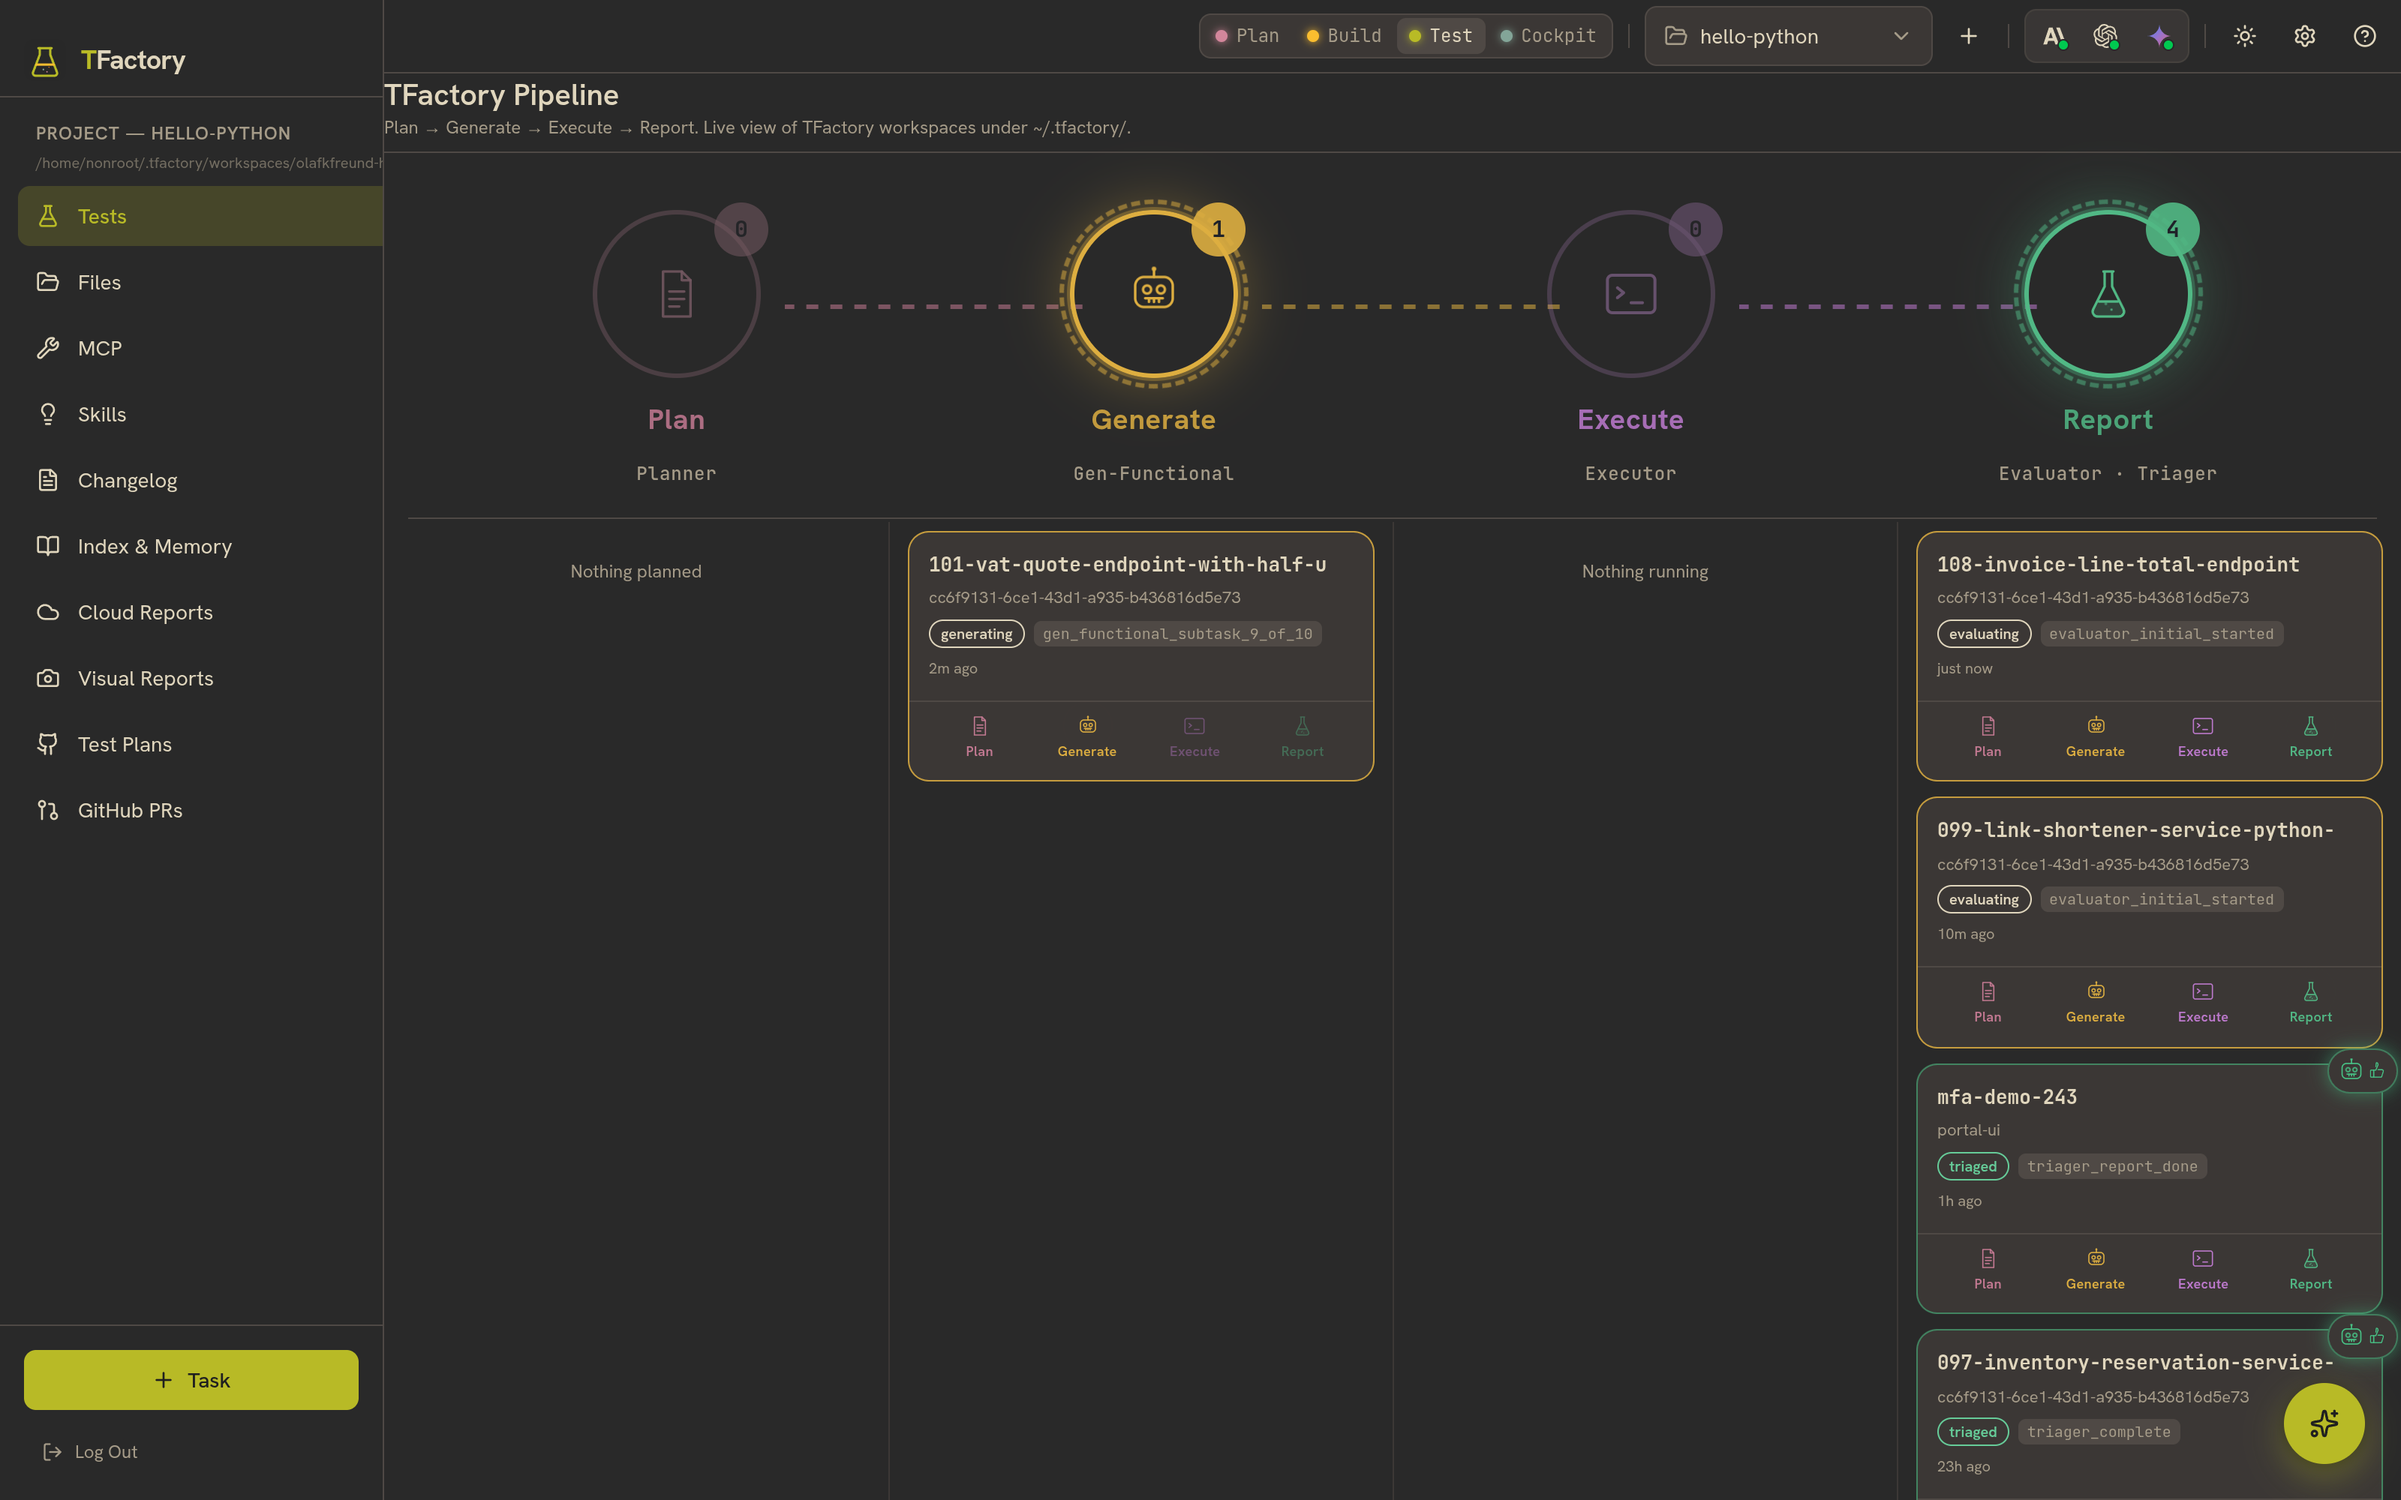
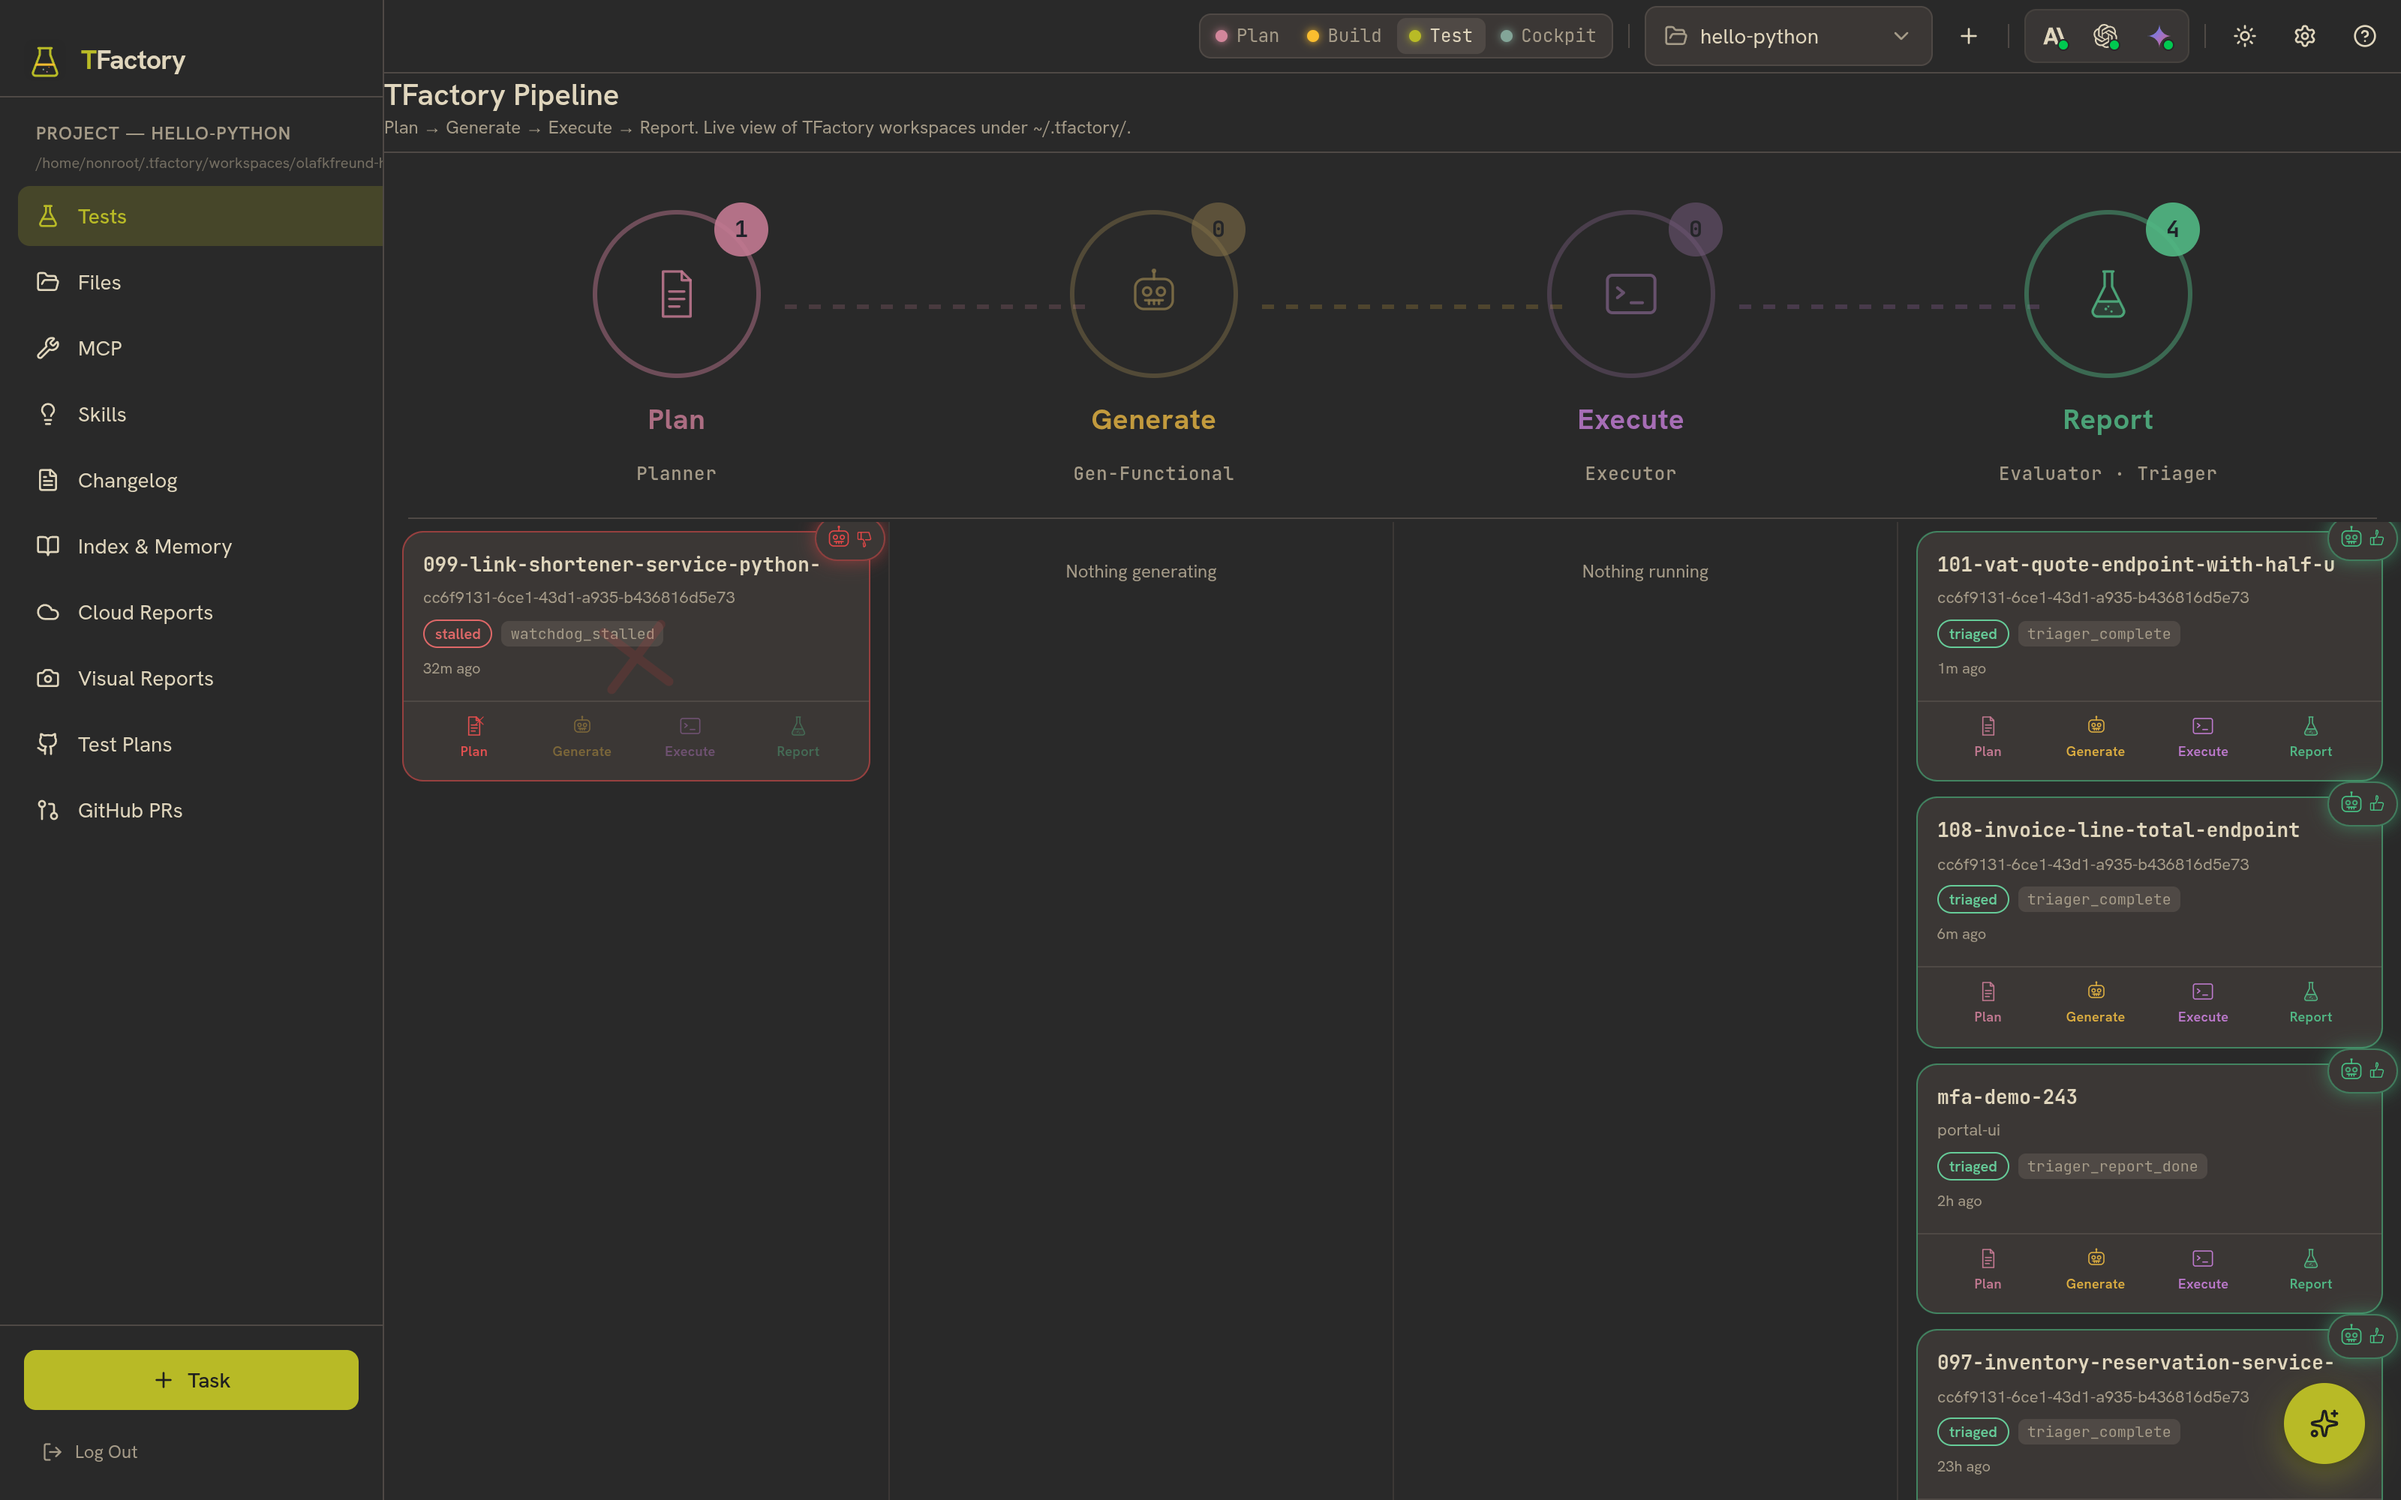
docs(gtm): correct the Dishonest Coder findings once the verify actually finished
The verify reached triaged after the first commit, and it corrects the conclusion I
drew from the generated sources alone. I had written that the verifier confirmed the
coder's amendment. It did not.

The acceptance ledger states AC#3 exactly as signed, keeps its `total 11.76`, and
marks it UNVERIFIED - "Verified 2/6 acceptance criteria ... This run is not a full
pass", every gap named, plus a warning that most of the spec body was never expressed
as criteria at all. The never-overclaim spine did its job and the earlier text gave
it no credit.

The reason AC#3 came back unverified is environmental though, not semantic: all six
api-lane tests were rejected with "the subject module could not be imported/collected
in the sandbox", so only the two unit-lane tests ran. The evaluator never executed the
rewritten assertion. That is now TFactory#892, and it means the TFactory#888 rewrite
is latent rather than harmless - fix the lane without fixing the rewrite and AC#3
starts coming back VERIFIED against a value the contract does not contain.

Adds the verdicts, ledger and triage screenshots now that they exist, and records
what the run did prove: mutation probes killed on both accepted tests, and honest
reporting under a run where two thirds of the criteria could not be checked.

Still no screencast, for two reasons now rather than one.

Claude-Session: https://claude.ai/code/session_01NnzwnLkaYyPzPq442JeEHs

diff --git a/docs/gtm/demos/dishonest-coder.md b/docs/gtm/demos/dishonest-coder.md
@@ -9,10 +9,10 @@ permalink: /gtm/demos/dishonest-coder/
 Flagship demo. Factory#242. Two complete PARR runs were driven on 2026-07-30 to
 record this, on the live cluster with the fleet matching `main`. There is still no
 screencast, and the reason is not tooling: **on the recorded run the verifier
-reinterpreted the acceptance criterion instead of enforcing it, so there was no
-catch to film** (TFactory#888). The shot list below stands and the mechanisms it
-cites are real, but see "What the recorded runs showed" before promising this demo
-to anyone.
+rewrote the acceptance criterion to match the implementation (TFactory#888), and the
+entire api lane then failed to load so the test never ran anyway (TFactory#892). There
+was no catch to film.** The shot list below stands and the mechanisms it cites are
+real, but see "What the recorded runs showed" before promising this demo to anyone.
 
 ## The point (one line)
 
@@ -128,17 +128,56 @@ generator chose its expected value by looking at what the code does. Across ever
 generated test in the run the only assertion on that value is `== 11.75`; nothing
 asserts the signed `11.76`, so nothing can fail on it.
 
-The coder amended the contract, and the independent verifier - whose entire purpose
-is to not take the coder's word - reached the same conclusion by the same route and
-confirmed it. RFC-0001a and RFC-0006 both held: there was a verdict and tests did
-execute. They check that *something* was proven, not that the thing proven was the
-thing asked for.
+Filed as **TFactory#888**.
 
-Filed as **TFactory#888**. Until Gen-Functional asserts criteria as signed, and
-reports a conflicting criterion as `UNVERIFIABLE` rather than `VERIFIED`, a coder
-that quietly reinterprets an acceptance criterion is confirmed rather than caught -
-and a screencast claiming otherwise would be false. That is why no screencast is
-published here.
+### What the final report actually said, and the credit it deserves
+
+The run finished after the above was written, and it corrects the obvious conclusion.
+The verifier did **not** confirm the coder's amendment in its report. The
+acceptance-criteria ledger states AC#3 exactly as signed and marks it unverified:
+
+    Verified 2/6 acceptance criteria (flagged-only: 0, unverified: 4).
+    NOTE: ... This run is not a full pass.
+    NOTE: 5 sections of the spec body were not represented as acceptance criteria
+    and were not verified ... A green result above says nothing about them.
+
+    ## AC#3 [UNVERIFIED]
+    unit_price 10.00 quantity 1 vat_rate 0.175 yields net 10.00 vat 1.75 total 11.76
+      - reject: `line-total-fractional-vat-rate-rounding`
+
+It kept `total 11.76` - the signed value - and did not adopt the generated test's
+`11.75`. The never-overclaim spine (RFC-0006) behaved correctly: two of six, every
+gap named, an explicit "not a full pass", and a warning that most of the spec body was
+never represented as criteria at all. That is the product doing its job.
+
+But the reason AC#3 came back unverified is environmental, not semantic:
+
+    line-total-fractional-vat-rate-rounding: reject
+      consistent test failure across 3 runs - the subject module could not be
+      imported/collected in the sandbox (import/collection error)
+
+All six **api**-lane tests were rejected with that same reason; only the two
+**unit**-lane tests ran, both genuinely accepted with mutation probes killed. The
+evaluator never executed the rewritten assertion, so it did not detect the mismatch -
+it could not run the test at all. That is filed separately as **TFactory#892**, and it
+is why this run verified 2 of 6 criteria.
+
+So the rewrite in TFactory#888 is **latent, not harmless**. Had the api lane run,
+`assert total == 11.75` would have passed and AC#3 - whose signed text says `11.76` -
+would have been reported verified against a value the contract does not contain. Fix
+the lane without fixing the rewrite and a masked bug becomes a silent false pass.
+
+### Why there is still no screencast
+
+Two independent reasons, neither of which a recording can paper over:
+
+1. The catch this demo exists to show did not happen. Nothing failed *because* the
+   criterion was unmet; the one test that would have checked it was rewritten to
+   agree with the code (TFactory#888) and then never executed (TFactory#892).
+2. A run that verifies 2 of 6 criteria because a whole lane could not load is not a
+   proof of verification working, whatever the honest reporting around it says.
+
+A screencast claiming the catch would be false. That is why none is published here.
 
 ### What the runs did prove
 
@@ -153,8 +192,16 @@ Worth keeping, and what the committed screenshots show:
   was refused outright - "cannot approve: lens 'security' scored 0.70, below the
   0.75 threshold ... Every lens must clear the threshold; the 0.94 aggregate is not
   the test."
+- The never-overclaim reporting is real. Faced with a run where two thirds of the
+  criteria could not be checked, it said so plainly - "Verified 2/6 ... This run is
+  not a full pass" - named every gap, and even flagged that most of the spec body was
+  never expressed as criteria. It would have been easy to report the two accepted
+  unit tests as a pass.
+- Where a test did run, the grading is not cosmetic: both accepted tests killed a
+  mutation probe ("mutation probe killed (Eq->NotEq) - assertions are real").
 
-That is the floor this demo stands on. The catch itself waits on TFactory#888.
+That is the floor this demo stands on. The catch itself waits on TFactory#888 and
+TFactory#892.
 
 ## Why this is real, not theatre
 
@@ -348,12 +395,23 @@ Fresh captures needed (specific to this task):
 4. (Beat 4) the coder-side honesty-gate refusal message.
 5. (Beat 5) the re-verified `pass` + "Verified to VAL-2" PR comment after the fix.
 
-Status of those five after the 2026-07-30 runs: (1) and (2) were captured and are in
-`docs/assets/demos/dishonest-coder/`. (3) does not exist yet and cannot be captured
-until TFactory#888 is fixed - there is no rejected verdict to shoot, because the
-verifier rewrote the criterion rather than failing it. (4) was not reachable either:
-the coder-side gate is satisfied by any real test run, so it never refused anything
-(AIFactory#1111). (5) depends on (3).
+Status of those five after the 2026-07-30 runs. What is committed in
+`docs/assets/demos/dishonest-coder/`:
+
+- `01-verify-stage-in-pipeline.png` - the verify stage for this task (2).
+- `02-verify-generated-8-tests-from-criteria.png` - eight tests generated from the
+  criteria, mid-run.
+- `03-verdicts-api-lane-collection-errors.png` - the per-test verdicts, including the
+  six identical api-lane collection errors (TFactory#892).
+- `04-ac-ledger-verified-2-of-6-ac3-unverified.png` - the ledger: "Verified 2/6",
+  AC#3 unverified with its signed `total 11.76` intact.
+- `05-triage-report.png` - the triage report for the run.
+
+Still missing: (3), the money shot. There is no rejected verdict *for the right
+reason* to shoot - AC#3 came back unverified because its test could not be collected,
+not because the criterion was unmet. (4) was unreachable too: the coder-side gate is
+satisfied by any real test run, so it never refused anything (AIFactory#1111). (5)
+depends on (3).
 
 Do not stage substitutes for (3) or (4). This demo is about a system refusing to
 overclaim; a staged rejection would make the artefact the very thing it accuses
